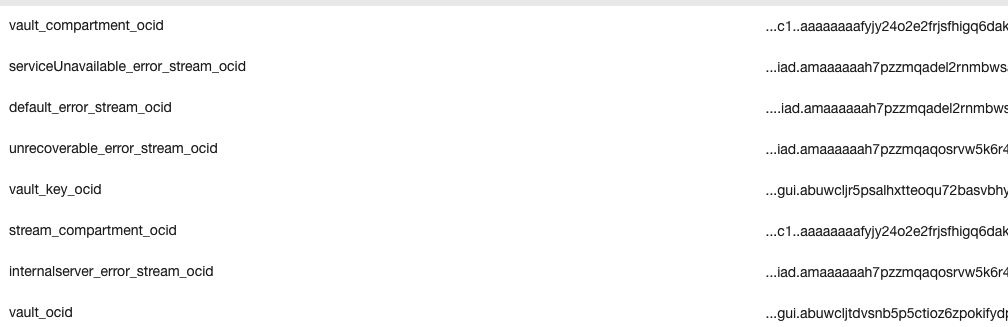
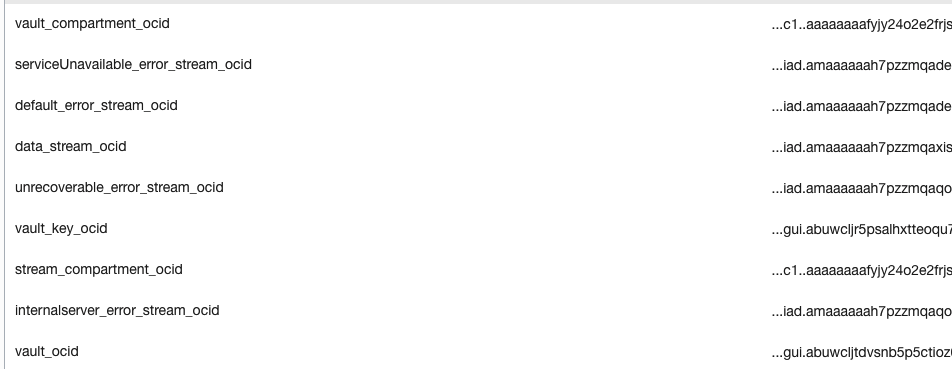
sonarqube changes'

diff --git a/code/PopulateDataStreamFunction/src/main/java/com/example/fn/PopulateDataStreamFunction.java b/code/PopulateDataStreamFunction/src/main/java/com/example/fn/PopulateDataStreamFunction.java
@@ -15,7 +15,6 @@ import com.fasterxml.jackson.databind.JsonMappingException;
 import com.fasterxml.jackson.databind.JsonNode;
 import com.fasterxml.jackson.databind.ObjectMapper;
 import com.fnproject.fn.api.Headers;
-import com.fnproject.fn.api.QueryParameters;
 import com.fnproject.fn.api.httpgateway.HTTPGatewayContext;
 import com.oracle.bmc.auth.ResourcePrincipalAuthenticationDetailsProvider;
 import com.oracle.bmc.model.BmcException;
@@ -45,6 +44,7 @@ public class PopulateDataStreamFunction {
 	private static final String VAULT_OCID = System.getenv().get("vault_ocid");
 	private static final String VAULT_COMPARTMENT_OCID = System.getenv().get("vault_compartment_ocid");
 	private static final String VAULT_KEY_OCID = System.getenv().get("vault_key_ocid");
+	private static final String DATA_STREAM_OCID = System.getenv().get("data_stream_ocid");
 
 	/**
 	 * @param httpGatewayContext
@@ -62,19 +62,10 @@ public class PopulateDataStreamFunction {
 		String streamMessage = "";
 		String vaultSecretName = "";
 
-		QueryParameters queryparams = httpGatewayContext.getQueryParameters();
 		// Read the request header to get the authorization header value.
 		// This will be stored in a vault
 		Headers headers = httpGatewayContext.getHeaders();
 		Optional<String> authorizationHeaderOpt = headers.get("Authorization");
-		// This is the OCID of the stream to which data is populated.
-
-		Optional<String> streamOCID = queryparams.get("streamOCID");
-		if (!streamOCID.isPresent()) {
-			httpGatewayContext.setStatusCode(500);
-			return "Stream OCID not present in the query params";
-
-		}
 
 		ObjectMapper objectMapper = new ObjectMapper();
 		try {
@@ -101,7 +92,7 @@ public class PopulateDataStreamFunction {
 
 			}
 
-			storeMessageinStream(streamMessage, streamOCID.get(), streamKey);
+			storeMessageinStream(streamMessage, DATA_STREAM_OCID, streamKey);
 
 		} catch (BmcException e) {
 			LOGGER.severe(e.getLocalizedMessage());
